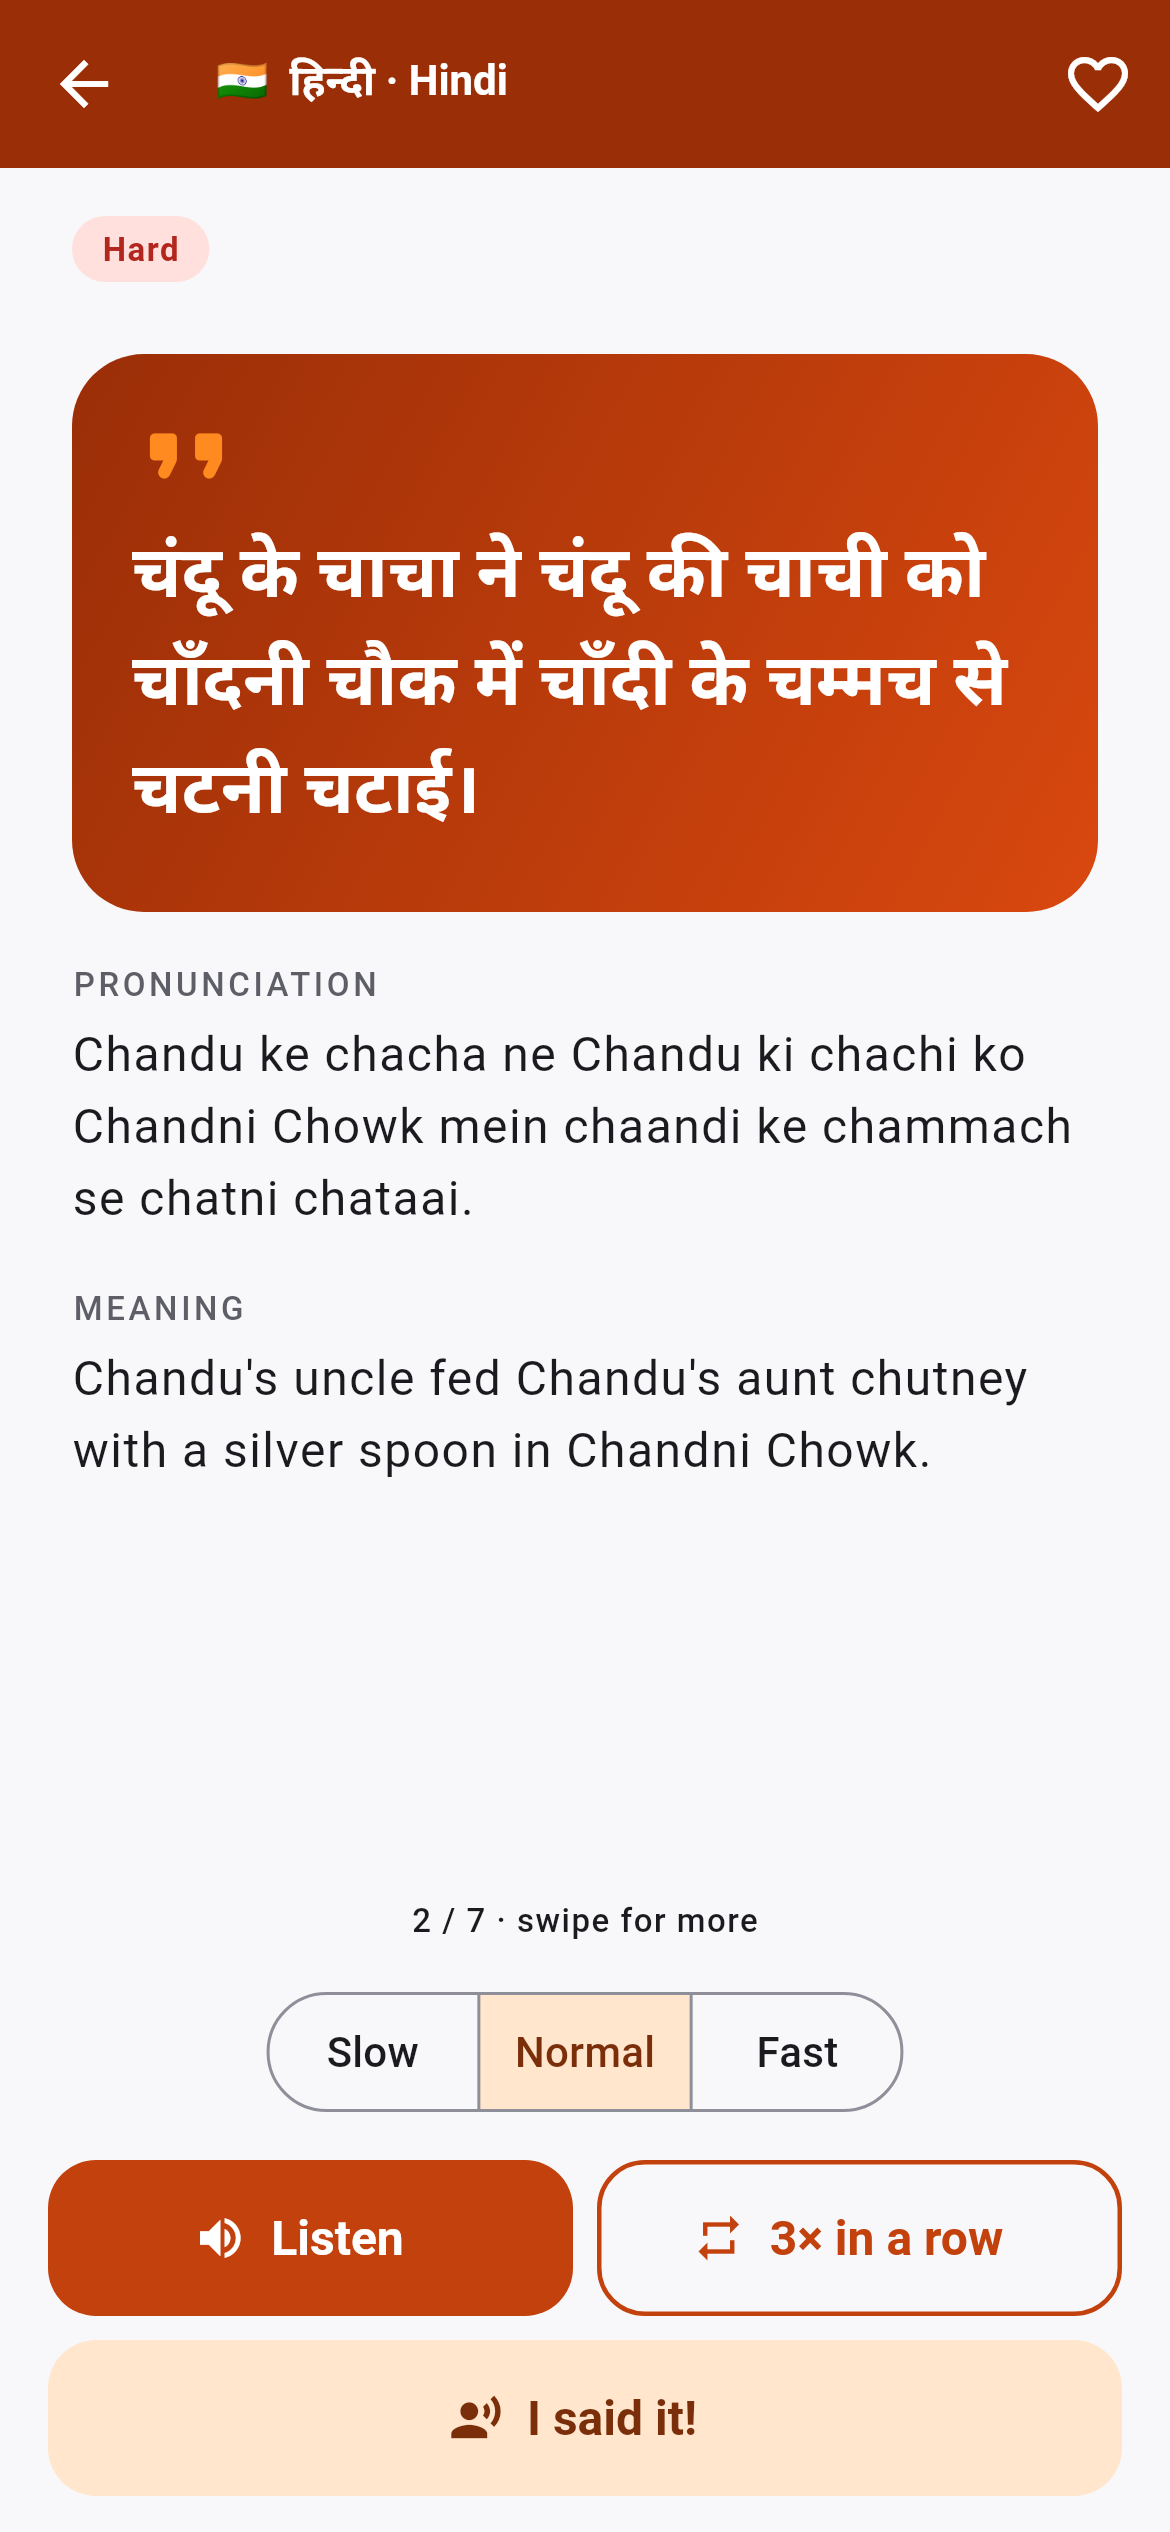
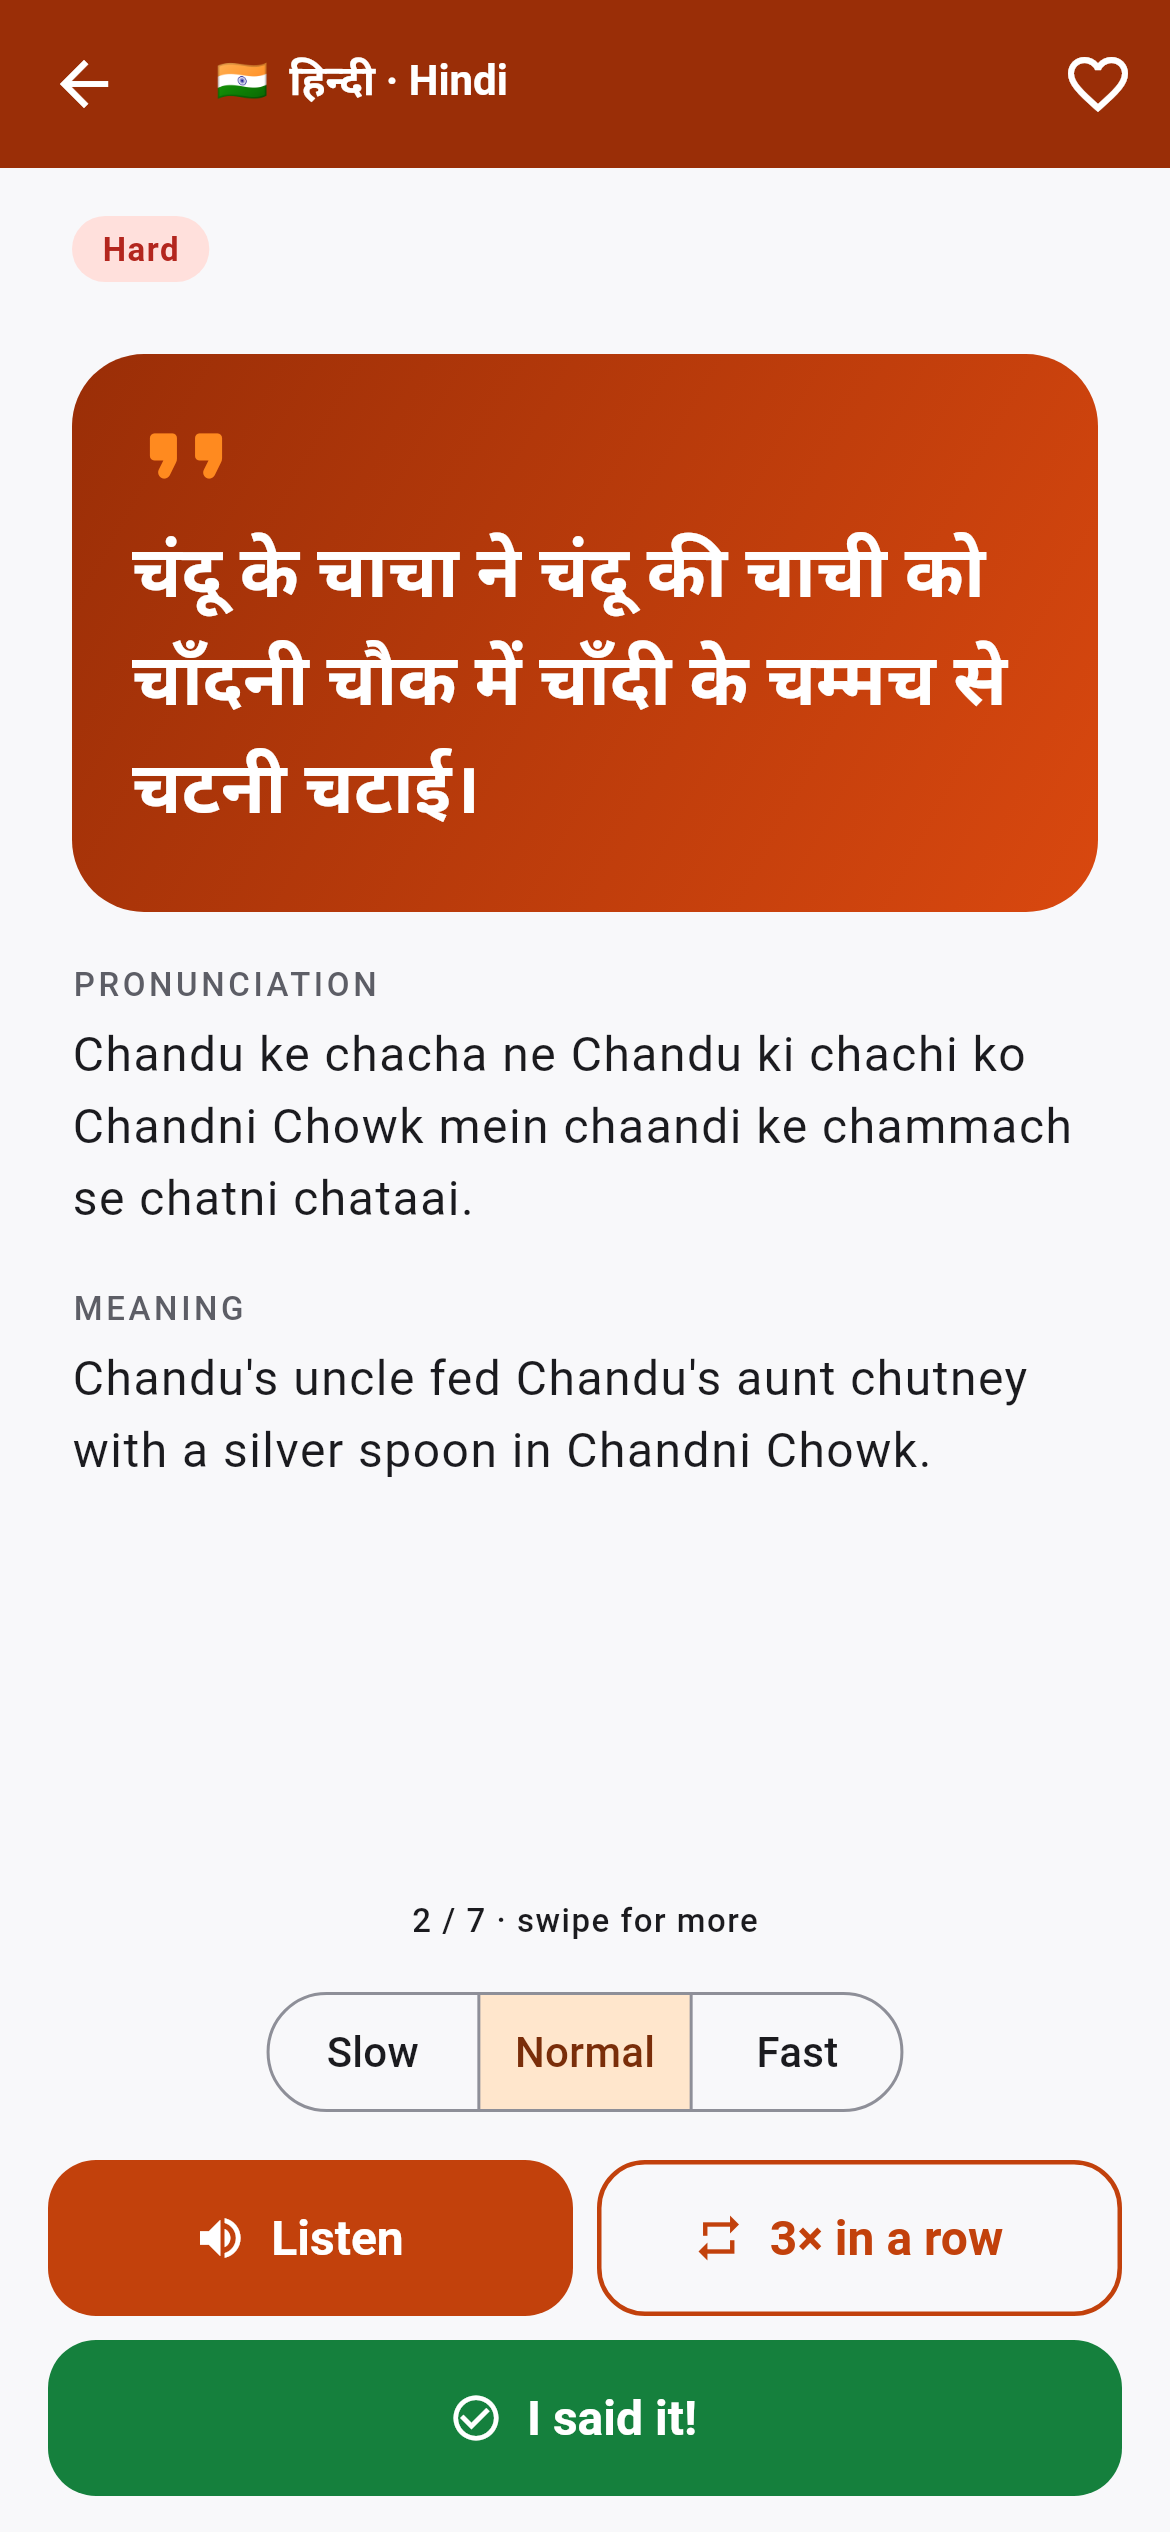
Make the "I said it!" button a solid success green
The pale tonal fill blended into the background. Use a contrast-checked
green (AppColors.success) in every section so it stands apart from the
section-coloured Listen button.

Claude-Session: https://claude.ai/code/session_01CTEUmRk79XV1t2FGtSFLix

Changed region(s): [[0.0308, 0.9048, 0.9846, 0.9984]]

diff --git a/lib/screens/twister_detail_screen.dart b/lib/screens/twister_detail_screen.dart
@@ -267,6 +267,9 @@ class _PracticeControls extends ConsumerWidget {
       speechControllerProvider.select((s) => s.isSpeaking(twister.id)),
     );
     final settings = ref.watch(settingsProvider);
+    final (successBackground, successForeground) = AppColors.success(
+      Theme.of(context).brightness,
+    );
 
     return SafeArea(
       top: false,
@@ -314,9 +317,13 @@ class _PracticeControls extends ConsumerWidget {
             const SizedBox(height: 8),
             SizedBox(
               width: double.infinity,
-              child: FilledButton.tonalIcon(
+              child: FilledButton.icon(
+                style: FilledButton.styleFrom(
+                  backgroundColor: successBackground,
+                  foregroundColor: successForeground,
+                ),
                 onPressed: onSaidIt,
-                icon: const Icon(Icons.record_voice_over),
+                icon: const Icon(Icons.check_circle_outline),
                 label: const Text('I said it!'),
               ),
             ),

diff --git a/lib/theme/app_theme.dart b/lib/theme/app_theme.dart
@@ -11,6 +11,13 @@ abstract final class AppColors {
   /// Filled heart for favourites, the same in every section.
   static const favorite = Color(0xFFE5395B);
 
+  /// "I said it!" button: a success green, the same in every section so it
+  /// stands apart from the section-coloured Listen button.
+  static (Color background, Color foreground) success(Brightness brightness) =>
+      brightness == Brightness.dark
+      ? (const Color(0xFF4ADE80), const Color(0xFF052E16))
+      : (const Color(0xFF15803D), Colors.white);
+
   static const heroGradient = LinearGradient(
     begin: Alignment.topLeft,
     end: Alignment.bottomRight,

diff --git a/AGENTS.md b/AGENTS.md
@@ -61,6 +61,7 @@ docs/screenshots/           README images
 
 - Every colour lives in `lib/theme/app_theme.dart`. Screens use `Theme.of(context).colorScheme` and the `SectionColors` / `DifficultyColors` extensions. Don't hard-code hex values in widgets; plain `Colors.white` on gradients is fine.
 - Screens belonging to one section wrap their content in `SectionTheme(section: ...)` and use `SectionAppBar`. Each section's button and chip colours are a hand-picked `AccentPalette` per brightness, chosen for contrast (at least 4.5:1 for text). Don't go back to `ColorScheme.fromSeed` alone: it tinted every surface and turned saffron and gold into muddy brown and olive.
+- The "I said it!" button uses `AppColors.success` (green) in every section, so it stays distinct from the section-coloured Listen button.
 - Surfaces are neutral greys in both modes (`_scheme` in `app_theme.dart`). Colour belongs to accents only: buttons, chips, headers, the twister card gradient and list-card stripes.
 - Build text styles from `theme.textTheme.*.copyWith(...)`, not bare `TextStyle(...)`, so typography and font fallback stay consistent.
 - Every layout must work at 360 dp width in light and dark mode. Long Hindi and German lines must wrap or ellipsize, never overflow.
